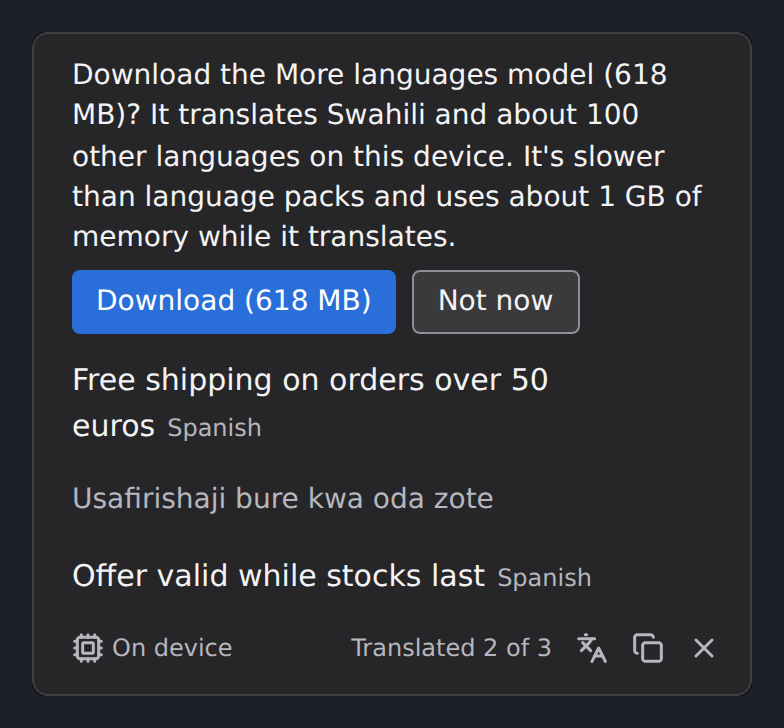
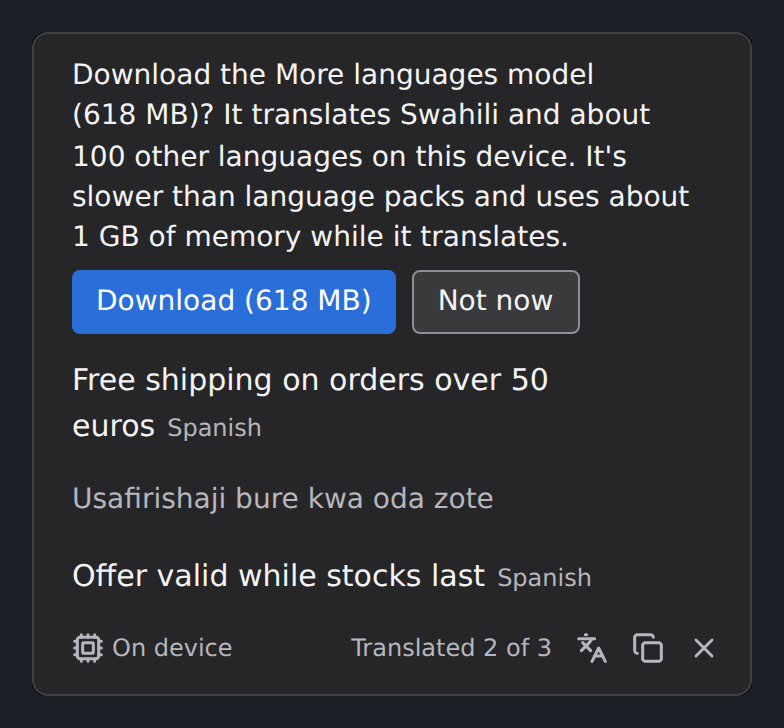
GLIM-138: keep the size on one line in the confirm question

Changed region(s): [[0.0918, 0.0907, 0.9184, 0.3626]]

diff --git a/app/test/popup-copy.test.ts b/app/test/popup-copy.test.ts
@@ -64,11 +64,11 @@ describe("GLIM-138 large downloads", () => {
 
 	test("the question says what it is, its size and what it's for", () => {
 		expect(packConfirmText(row("sw", 618_000_000, "long-tail-model"), "en")).toBe(
-			"Download the More languages model (618 MB)? It translates Swahili and about 100 other languages on this " +
+			"Download the More languages model (618\u00a0MB)? It translates Swahili and about 100 other languages on this " +
 				"device. It's slower than language packs and uses about 1 GB of memory while it translates.",
 		);
 		expect(packConfirmText(row("el", 250_000_000), "en")).toBe(
-			"Download 250 MB to translate Greek? This is a large download.",
+			"Download 250\u00a0MB to translate Greek? This is a large download.",
 		);
 	});
 
@@ -76,7 +76,7 @@ describe("GLIM-138 large downloads", () => {
 		const sw = e2([row("sw", 618_000_000, "long-tail-model")]);
 		expect(sw.body).toContain("needs the More languages model to translate Swahili");
 		expect(sw.buttons[0]).toMatchObject({ action: "download", label: "Download (618 MB)", lang: "sw" });
-		expect(sw.buttons[0]?.confirm).toContain("More languages model (618 MB)");
+		expect(sw.buttons[0]?.confirm).toContain("More languages model (618\u00a0MB)");
 		const el = e2([row("el", 31_000_000)]);
 		expect(el.buttons[0]).toMatchObject({ label: "Download Greek (31 MB)" });
 		expect(el.buttons[0]?.confirm).toBeUndefined();

diff --git a/app/src/views/popup/copy.ts b/app/src/views/popup/copy.ts
@@ -99,7 +99,8 @@ export const packProgressLabel = (lang: string, uiLang: string, kind?: PackKind)
  */
 export function packConfirmText(row: { lang: string; bytes: number; kind?: PackKind }, uiLang: string): string {
 	const name = languageName(row.lang, uiLang);
-	const size = formatBytes(row.bytes);
+	// A no-break space keeps "618 MB" on one line in the narrow popup.
+	const size = formatBytes(row.bytes).replace(" ", "\u00a0");
 	if (row.kind === "long-tail-model") {
 		return (
 			`Download the ${LONG_TAIL_MODEL} (${size})? It translates ${name} and about 100 other languages ` +
